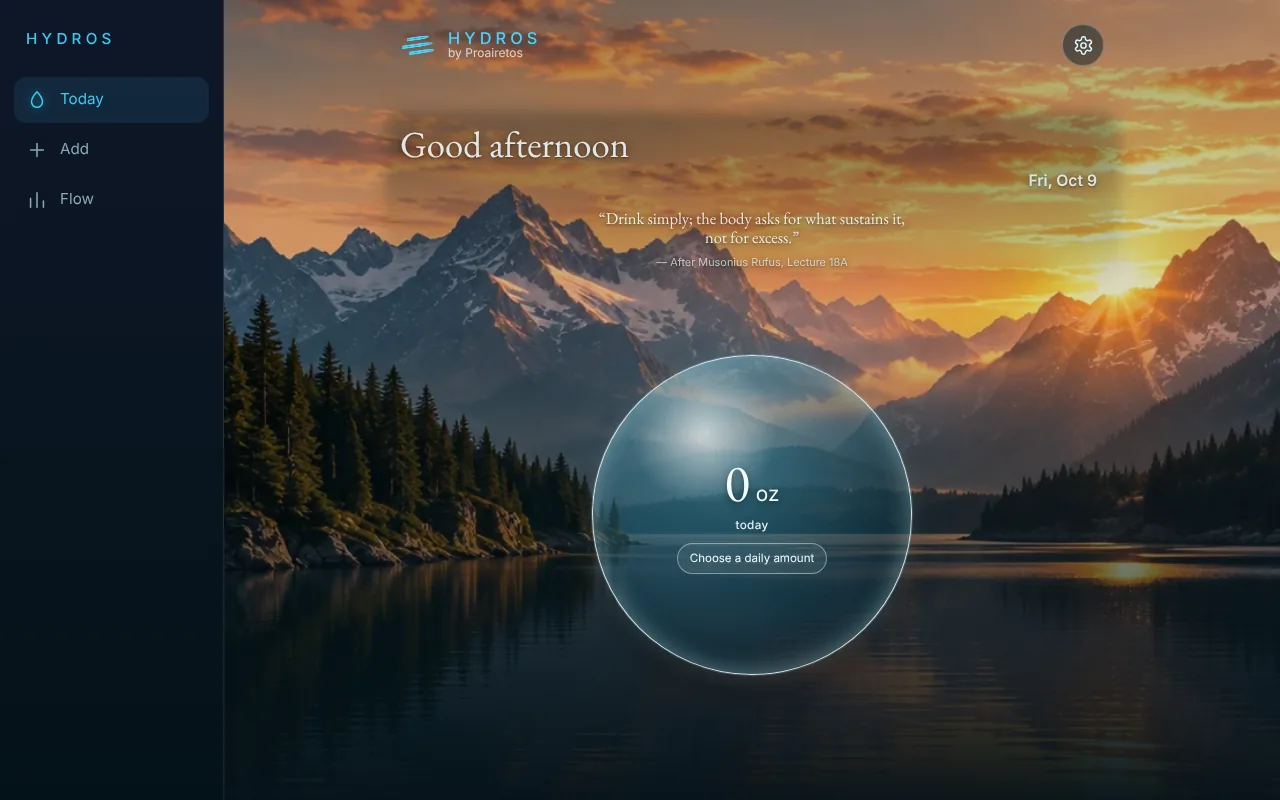
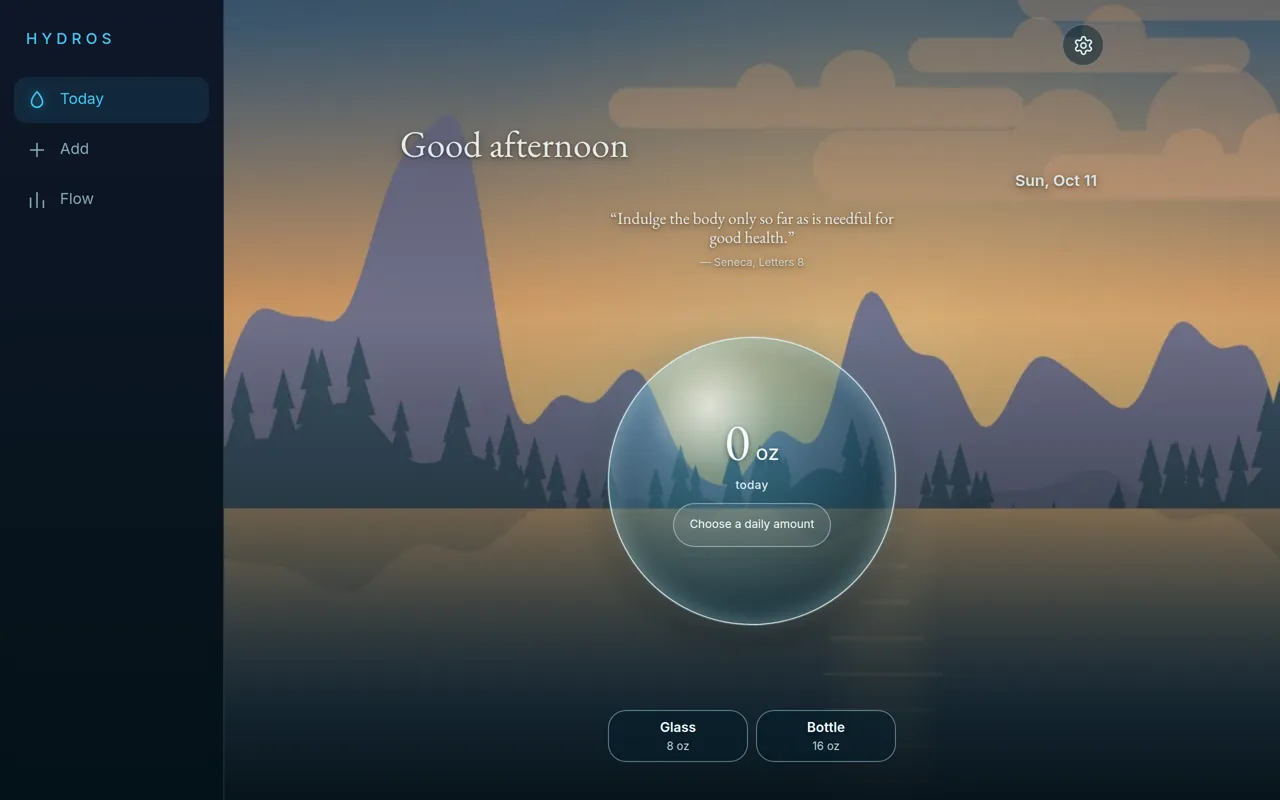
Fixes: first-night sleep, chore reminder times, Compass names, screenshots, server guide
- Diaita: two hours later to bed the night before a first night shift; an evening's
  sleep and what leads to it keep their own day even after midnight (checked across
  the 28-day days/evenings/nights rotation).
- Ergon: an optional reminder time per chore.
- Philia: a rename in Compass carries over unless renamed in Philia since.
- Install screenshots retaken with the drawn scenes; unused HYDROS images removed.
- Server guide: shared lists step, new apps' reminders, safe to rerun.

Claude-Session: https://claude.ai/code/session_01N8anZuCLRDLCYndkcTu2xC

diff --git a/src/diaita/core/rhythm.ts b/src/diaita/core/rhythm.ts
@@ -57,9 +57,11 @@ export type Entry = {
   title: string;
   detail?: string;
   source?: SourceKey;
+  /** The day this belongs to when the clock alone would say otherwise (a bedtime after midnight). */
+  day?: string;
 };
 
-export type Sleep = { start: Date; end: Date; after: 'evening' | 'night' | 'last-night' };
+export type Sleep = { start: Date; end: Date; after: 'evening' | 'night' | 'last-night'; /** The day an evening's sleep belongs to, even after midnight. */ day?: string };
 
 export type DayKind = 'off' | 'day' | 'evening' | 'night' | 'after-nights';
 
@@ -129,6 +131,9 @@ export function mainSleeps(from: string, until: string, blocks: readonly WorkBlo
         start = new Date(Math.max(start.getTime(), later(block.end, settings.commuteMinutes + 30).getTime()));
       }
     }
+    // The night before a first night shift: two hours later to bed and up, so the first night comes easier.
+    const firstNight = all.some((block) => startsOn(block, addDays(date, 1)) && isNight(block));
+    if (firstNight) start = later(start, 120);
     let end = later(start, length);
     // An early start: to bed earlier so the sleep is whole.
     const next = all.find((block) => block.start >= start && block.start.getTime() - start.getTime() < 18 * HOUR);
@@ -139,7 +144,7 @@ export function mainSleeps(from: string, until: string, blocks: readonly WorkBlo
         start = new Date(Math.max(later(upBy, -length).getTime(), later(start, -180).getTime()));
       }
     }
-    if (end > start) sleeps.push({ start, end, after: 'evening' });
+    if (end > start) sleeps.push({ start, end, after: 'evening', day: date });
   }
   return sleeps;
 }
@@ -157,16 +162,16 @@ export function planBetween(from: string, until: string, blocks: readonly WorkBl
   }
 
   for (const sleep of sleeps) {
-    add({ key: `sleep:${stamp(sleep.start)}`, kind: 'sleep', start: sleep.start, end: sleep.end, title: sleep.after === 'last-night' ? 'Short sleep' : 'Sleep', source: sleep.after === 'evening' ? 'sleep' : sleep.after === 'night' ? 'light' : 'hygiene' });
+    add({ key: `sleep:${stamp(sleep.start)}`, kind: 'sleep', start: sleep.start, end: sleep.end, day: sleep.day, title: sleep.after === 'last-night' ? 'Short sleep' : 'Sleep', source: sleep.after === 'evening' ? 'sleep' : sleep.after === 'night' ? 'light' : 'hygiene' });
     add({ key: `wake:${stamp(sleep.end)}`, kind: 'wake', start: sleep.end, title: 'Up' });
     if (settings.windDownMinutes > 0 && sleep.after === 'evening') {
-      add({ key: `wind:${stamp(sleep.start)}`, kind: 'wind-down', start: later(sleep.start, -settings.windDownMinutes), end: sleep.start, title: 'Wind down', detail: 'Dim lights, screens away', source: 'hygiene' });
+      add({ key: `wind:${stamp(sleep.start)}`, kind: 'wind-down', day: sleep.day, start: later(sleep.start, -settings.windDownMinutes), end: sleep.start, title: 'Wind down', detail: 'Dim lights, screens away', source: 'hygiene' });
     }
     if (settings.cutoffHours > 0) {
-      add({ key: `caffeine:${stamp(sleep.start)}`, kind: 'caffeine', start: later(sleep.start, -settings.cutoffHours * 60), title: 'Last caffeine', source: 'caffeine' });
+      add({ key: `caffeine:${stamp(sleep.start)}`, kind: 'caffeine', day: sleep.day, start: later(sleep.start, -settings.cutoffHours * 60), title: 'Last caffeine', source: 'caffeine' });
     }
     if (settings.meals && sleep.after === 'evening') {
-      add({ key: `meal:${stamp(sleep.start)}`, kind: 'meal', start: later(sleep.start, -180), title: 'Last big meal', source: 'hygiene' });
+      add({ key: `meal:${stamp(sleep.start)}`, kind: 'meal', day: sleep.day, start: later(sleep.start, -180), title: 'Last big meal', source: 'hygiene' });
     }
     if (settings.light && sleep.after !== 'night') {
       const wake = sleep.end;
@@ -214,7 +219,7 @@ const order = (kind: EntryKind) => ORDER.indexOf(kind);
 
 /** Entries for one day, by the day each belongs to (the person's day in the app; calendar days in tests). */
 export function entriesOn(date: string, entries: readonly Entry[], dayOf: (when: Date) => string = toLocalDate): Entry[] {
-  return entries.filter((entry) => dayOf(entry.start) === date);
+  return entries.filter((entry) => (entry.day ?? dayOf(entry.start)) === date);
 }
 
 // ---------- The sleep log ----------

diff --git a/src/ergon/core/notices.ts b/src/ergon/core/notices.ts
@@ -9,19 +9,22 @@ export const defaultChoreNotices: ChoreNoticeChoices = { on: true, at: '09:00', 
 /** One notice on each day chores come round, at the chosen time, naming them. A day already come is not said again. */
 export function choreNotices(chores: readonly Chore[], choices: ChoreNoticeChoices, me: string | undefined, today: string, horizon: number): Notice[] {
   if (!choices.on) return [];
+  // Grouped by day and time: chores with their own reminder time are said at that time.
   const byDay = new Map<string, Chore[]>();
   for (const chore of chores) {
     if (choices.onlyMine && me && chore.who && chore.who !== me) continue;
     const day = nextDay(chore);
     if (!day || day < today || day > addDays(today, horizon)) continue;
-    byDay.set(day, [...(byDay.get(day) ?? []), chore]);
+    const slot = `${day} ${chore.remindAt ?? choices.at}`;
+    byDay.set(slot, [...(byDay.get(slot) ?? []), chore]);
   }
-  return [...byDay].map(([day, list]) => {
+  return [...byDay].map(([slot, list]) => {
+    const [day, at] = slot.split(' ');
     const names = list.map((chore) => chore.name).sort((a, b) => a.localeCompare(b));
     return {
-      key: `ergon:${day}:${names.join('|').slice(0, 80)}`,
+      key: `ergon:${day}:${at}:${names.join('|').slice(0, 80)}`,
       kind: 'chore' as const,
-      at: atTime(day, choices.at),
+      at: atTime(day, at),
       title: names.length === 1 ? names[0] : `${names.length} chores`,
       body: names.length === 1 ? 'Today.' : names.join(', '),
       open: 'ergon',

diff --git a/src/philia/core/people.ts b/src/philia/core/people.ts
@@ -25,8 +25,9 @@ export type Person = {
   /** Days between being in touch, if the person chose a rhythm. */
   keepInTouch?: number;
   lastInTouch?: string;
-  /** The Compass person this came from, if brought in. */
+  /** The Compass person this came from, if brought in, and the name it had there then. */
   compassId?: string;
+  compassName?: string;
   createdAt: string;
 };
 
@@ -174,4 +175,20 @@ export function matches(person: Person, query: string): boolean {
 
 export function shortDate(date: string): string {
   return parseLocalDate(date).toLocaleDateString(undefined, { day: 'numeric', month: 'short', year: date.slice(0, 4) === String(new Date().getFullYear()) ? undefined : 'numeric' });
+}
+
+/**
+ * People brought in from Compass take a new name given there, unless they were renamed here since (then the
+ * name here is the person's own choice and stays).
+ */
+export function followCompass(people: readonly Person[], compass: readonly { id: string; body: string }[]): Person[] {
+  const byId = new Map(compass.map((each) => [each.id, each.body.trim()]));
+  const changed: Person[] = [];
+  for (const person of people) {
+    const there = person.compassId ? byId.get(person.compassId) : undefined;
+    if (!there || there === person.compassName) continue;
+    const untouched = person.compassName === undefined || person.name === person.compassName;
+    changed.push(untouched ? { ...person, name: there, compassName: there } : { ...person, compassName: there });
+  }
+  return changed;
 }

diff --git a/src/philia/core/people.test.ts b/src/philia/core/people.test.ts
@@ -1,5 +1,5 @@
 import { describe, expect, it } from 'vitest';
-import { comingUp, dateParts, datePartsToText, fromCompass, inTouchNow, initials, matches, newPerson, nextOccurrence, sinceText, touchDate, turningText, whenText, type Person } from './people';
+import { followCompass, comingUp, dateParts, datePartsToText, fromCompass, inTouchNow, initials, matches, newPerson, nextOccurrence, sinceText, touchDate, turningText, whenText, type Person } from './people';
 import { peopleNotices, defaultPeopleNotices } from './notices';
 
 const now = new Date('2026-10-10T12:00:00');
@@ -90,5 +90,15 @@ describe('the rest', () => {
     const p = person({ name: 'Ana', gifts: [{ id: 'g', text: 'Pottery class', at: '' }] });
     expect(matches(p, 'ana pottery')).toBe(true);
     expect(matches(p, 'ana books')).toBe(false);
+  });
+});
+
+describe('following Compass', () => {
+  it('takes a new name from Compass unless renamed here', () => {
+    const kept = person({ id: 'a', name: 'Ana', compassId: 'c1', compassName: 'Ana' });
+    const renamed = person({ id: 'b', name: 'Benny', compassId: 'c2', compassName: 'Ben' });
+    const changed = followCompass([kept, renamed], [{ id: 'c1', body: 'Ana López' }, { id: 'c2', body: 'Benjamin' }]);
+    expect(changed.map((p) => [p.name, p.compassName])).toEqual([['Ana López', 'Ana López'], ['Benny', 'Benjamin']]);
+    expect(followCompass(changed, [{ id: 'c1', body: 'Ana López' }, { id: 'c2', body: 'Benjamin' }])).toEqual([]);
   });
 });

diff --git a/src/ergon/screens/ChorePage.tsx b/src/ergon/screens/ChorePage.tsx
@@ -34,6 +34,7 @@ export default function ChorePage({ nav, id }: { nav: ErgonNav; id?: string }) {
   const [rota, setRota] = useState<string[]>(existing?.rota ?? []);
   const [newName, setNewName] = useState('');
   const [note, setNote] = useState(existing?.note ?? '');
+  const [remindAt, setRemindAt] = useState(existing?.remindAt ?? '');
   const nameField = useRef<HTMLInputElement>(null);
   useEffect(() => {
     if (!id) nameField.current?.focus();
@@ -75,6 +76,7 @@ export default function ChorePage({ nav, id }: { nav: ErgonNav; id?: string }) {
       who: turns ? (rotaNames?.includes(who) ? who : rotaNames?.[0]) : who.trim() || undefined,
       rota: rotaNames && rotaNames.length > 1 ? rotaNames : undefined,
       note: note.trim() || undefined,
+      remindAt: remindAt || undefined,
     };
     putChore(next);
     if (existing) offerUndo('Saved', () => putChore(existing));
@@ -196,6 +198,10 @@ export default function ChorePage({ nav, id }: { nav: ErgonNav; id?: string }) {
         )}
       </fieldset>
 
+      <label className="field">
+        <span className="field__label">Reminder time (optional)</span>
+        <input className="input" type="time" value={remindAt} onChange={(event) => setRemindAt(event.target.value)} />
+      </label>
       <label className="field">
         <span className="field__label">Note (optional)</span>
         <input className="input" value={note} onChange={(event) => setNote(event.target.value)} />

diff --git a/src/philia/app/App.tsx b/src/philia/app/App.tsx
@@ -3,7 +3,10 @@ import { startSync } from '../../app/sync/syncController';
 import { takeOpening } from '../../app/family/opening';
 import { Shell, useRoutes, type Nav, type TabDef } from '../../app/family/shell';
 import { HomeIcon, MoreIcon, PeopleIcon } from '../../app/family/icons';
-import { settings } from './state';
+import { people, settings } from './state';
+import { readStore } from '../../app/family/read';
+import type { CompassStatement } from '../../core/compass/types';
+import { followCompass } from '../core/people';
 import WelcomePage from '../screens/WelcomePage';
 import HomePage from '../screens/HomePage';
 import PeoplePage from '../screens/PeoplePage';
@@ -36,6 +39,10 @@ export default function App() {
 
   useEffect(() => {
     void startSync();
+    // Names changed in Compass carry over to the people brought in from there.
+    void readStore<CompassStatement>('statements').then((all) => {
+      for (const person of followCompass(people.list(), all.filter((each) => each.type === 'PERSON'))) people.put(person);
+    });
   }, []);
 
   const page = (() => {

diff --git a/src/ergon/core/chores.test.ts b/src/ergon/core/chores.test.ts
@@ -95,6 +95,12 @@ describe('notices', () => {
     expect(notices.map((n) => [n.title, n.body, n.at.getDate()])).toEqual([['2 chores', 'Bins out, Vacuum', 12]]);
   });
 
+  it('says a chore with its own time at that time', () => {
+    const list = [chore({ id: 'a', name: 'Bins out', start: '2026-10-12', remindAt: '19:00' }), chore({ id: 'b', name: 'Vacuum', start: '2026-10-12' })];
+    const notices = choreNotices(list, defaultChoreNotices, undefined, '2026-10-10', 14);
+    expect(notices.map((n) => [n.title, n.at.getHours()]).sort()).toEqual([['Bins out', 19], ['Vacuum', 9]]);
+  });
+
   it('can keep to one person', () => {
     const list = [chore({ id: 'a', name: 'Bins out', start: '2026-10-12', who: 'Ana' }), chore({ id: 'b', name: 'Vacuum', start: '2026-10-12', who: 'Ben' })];
     const notices = choreNotices(list, { ...defaultChoreNotices, onlyMine: true }, 'Ana', '2026-10-10', 14);

diff --git a/src/app/whatsNew.ts b/src/app/whatsNew.ts
@@ -7,6 +7,10 @@ export const whatsNew: { date: string; lines: string[] }[] = [
       'Philia: birthdays, things to remember, gift ideas and times together with the people in your life.',
       'Ergon: household chores that come round, with turns, shared with the people you live with.',
       'Today, Days ahead and search show what these keep, each one switchable in What’s included.',
+      'Every app’s pictures are now drawn scenes, in one style across the family.',
+      'Diaita: later to bed the night before a first night shift.',
+      'Ergon: a reminder time for a single chore.',
+      'Philia: a name changed in Compass carries over.',
     ],
   },
   {

diff --git a/src/diaita/core/rhythm.test.ts b/src/diaita/core/rhythm.test.ts
@@ -46,6 +46,12 @@ describe('sleep', () => {
     expect(clock(sleep.start)).toBe('00:00');
   });
 
+  it('goes to bed two hours later the night before a first night', () => {
+    const before = mainSleeps('2026-10-04', '2026-10-04', nights, defaultRhythm).find((sleep) => sleep.after === 'evening' && sleep.start.getDate() === 5)!;
+    expect(clock(before.start)).toBe('00:30');
+    expect(clock(before.end)).toBe('08:00');
+  });
+
   it('sleeps after each night once home, and briefly after the last', () => {
     const sleeps = mainSleeps('2026-10-05', '2026-10-08', nights, defaultRhythm);
     const afterNights = sleeps.filter((sleep) => sleep.after !== 'evening');

diff --git a/src/philia/screens/MorePage.tsx b/src/philia/screens/MorePage.tsx
@@ -41,6 +41,7 @@ export default function MorePage({ nav: _nav }: { nav: PhiliaNav }) {
     const added = waiting.map((each) => ({
       ...newPerson(newId(), each.body, now),
       compassId: each.id,
+      compassName: each.body.trim(),
       lastInTouch: each.inTouchAt,
       notes: each.note ? [{ id: newId(), text: each.note, at: now.toISOString() }] : [],
     }));

diff --git a/src/ergon/core/chores.ts b/src/ergon/core/chores.ts
@@ -33,6 +33,8 @@ export type Chore = {
   note?: string;
   /** Minutes it usually takes, if noted. */
   minutes?: number;
+  /** "HH:MM" for this chore's reminder, when it differs from the usual time. */
+  remindAt?: string;
   createdAt: string;
 };
 

diff --git a/CLAUDE.md b/CLAUDE.md
@@ -594,7 +594,8 @@ Inter, bundled via @fontsource), real Supabase emails and push delivery.
   before a first night (90 min ending an hour before leaving, Ruggiero 2014), bright light in the first half of
   a night and sunglasses home when another night follows (Smith/Eastman 2009), main meal before and small
   snacks 00:00-06:00 on nights (Chellappa 2021), a short sleep after the last night, earlier bed before an
-  early start, later after a late finish. Every line can open its source; Settings (More) holds bedtime, sleep
+  early start, later after a late finish, two hours later the night before a first night (Smith/Eastman); an
+  evening's sleep, wind-down, last caffeine and last big meal keep their own day (`Entry.day`) even after midnight. Every line can open its source; Settings (More) holds bedtime, sleep
   hours, travel, getting ready, cutoff, wind-down, Light and Meals switches. Grouped by the person's day
   (`useDays`). Morning check-in: how you slept (Well/Okay/Poorly, optional), bed/up times (`diaita:sleep:DATE`)
   and the shared energy word (`setEnergy`). Week, Day, Sleep log with plain facts (`sleepFacts`), Sources.
@@ -604,14 +605,16 @@ Inter, bundled via @fontsource), real Supabase emails and push delivery.
   optional keep-in-touch rhythm that, when it comes round, says only how long it has been (`sinceText`).
   Home: Coming up (30 days), Keep in touch, Times together. More: bring in Compass people (`fromCompass`),
   reminder choices (dates on the day or days before, keep in touch, time). Notices kind `person`, opening
-  `philia:person:ID`. `?open=person:ID|add|people`.
+  `philia:person:ID`. People brought in keep `compassId`/`compassName`; a rename in Compass carries over on
+  opening Philia unless they were renamed in Philia since (`followCompass`). `?open=person:ID|add|people`.
 - Ergon (`core/chores.ts`, tests): chores repeat every N days or weeks from when last done, on days of the
   week, monthly (31 = last day) or once; a day that came stays "Since Tue" until done or skipped (never
   late); done late comes round one interval later; take turns (`rota`, passes on each time); Ideas chips;
   who did what in 30 days as plain counts. One shared household per person through `createSharedLists`
   (`ergon:households`, cache `ergonShared`, AD `ergon-list`; invite `/ergon/?open=home:ID#k=KEY&n=NAME`, read in
   `main.tsx`); sharing moves this phone's chores in, leaving keeps a copy. Notices kind `chore`: one per day
-  naming that day's chores, optional "Only mine" (More: your name here).
+  naming that day's chores at the usual time, or at a chore's own `remindAt` (optional, on the chore page);
+  optional "Only mine" (More: your name here).
 - In Proairetos: Settings > More apps rows; Notifications switches "Sleep and naps, from Diaita", "Birthdays,
   from Philia", "Chores, from Ergon" (`rhythm`, `people`, `chores` in NoticeSettings; notices from
   `app/notify/familyNotices.ts`); What's included parts `diaita` (tonight's sleep on Today), `birthdays`
